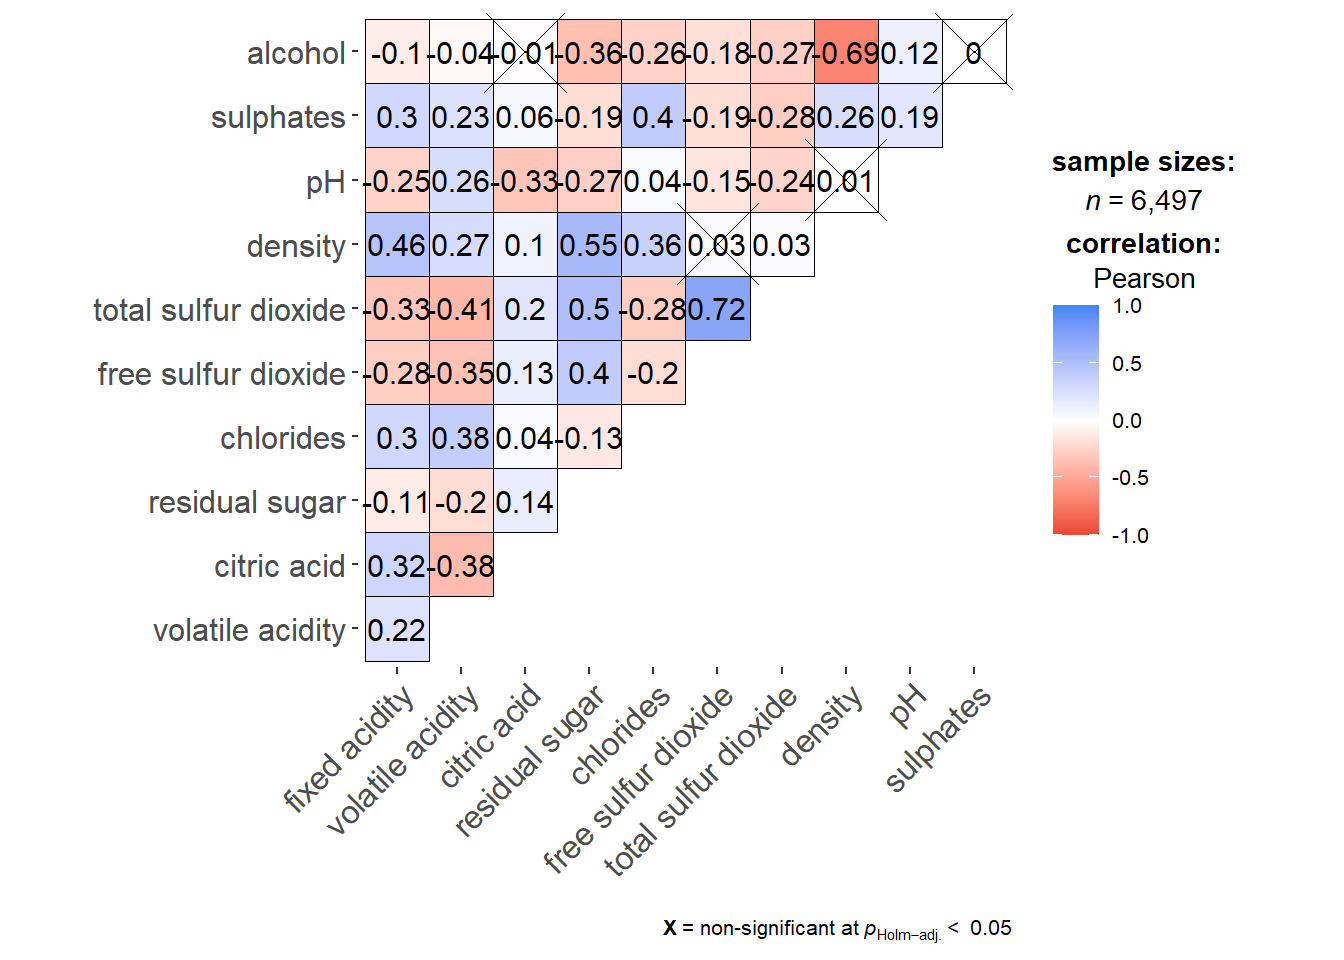
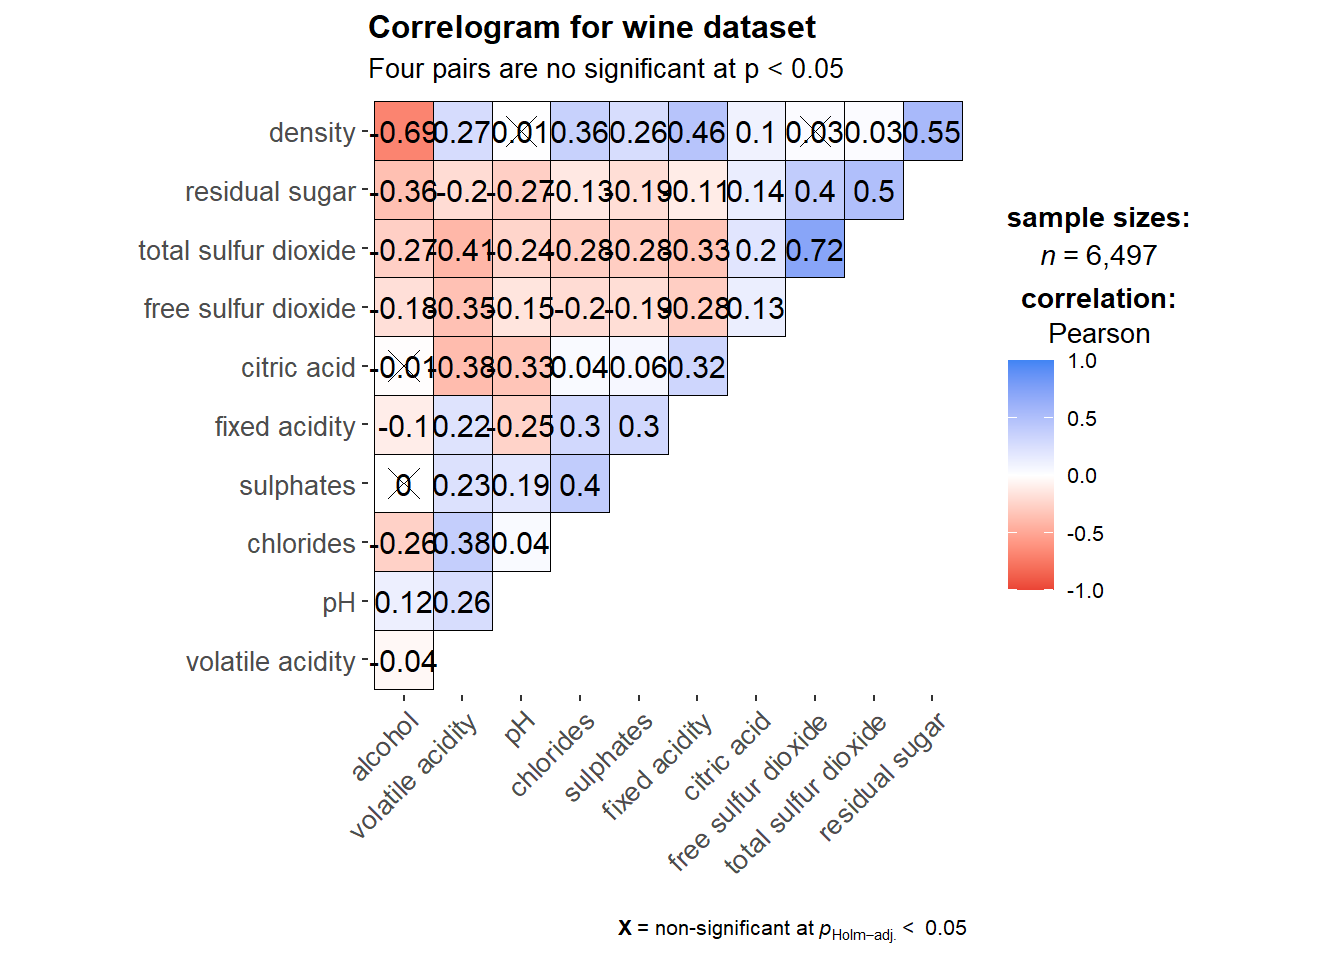
removed duplicate graph

Changed region(s): [[0.0625, 0.0, 0.75, 0.9062], [0.75, 0.1562, 0.9375, 0.625], [0.4688, 0.9375, 0.75, 1.0]]

diff --git a/_site/Hands-on_Ex/Hands-on_Ex05/Hands-on_Ex05_Building_Correlation_Matrix.html b/_site/Hands-on_Ex/Hands-on_Ex05/Hands-on_Ex05_Building_Correlation_Matrix.html
@@ -178,6 +178,14 @@ pre > code.sourceCode > span > a:first-child::before { text-decoration: underlin
     <a class="dropdown-item" href="../../Hands-on_Ex/Hands-on_Ex05/Hands-on_Ex05_Heatmap_for_multivariate_data.html">
  <span class="dropdown-text">Hands-on_Ex05_Heatmap_for_multivariate_data</span></a>
   </li>  
+        <li>
+    <a class="dropdown-item" href="../../Hands-on_Ex/Hands-on_Ex05/Hands-on_Ex05_visual_multivariate.html">
+ <span class="dropdown-text">Hands-on_Ex05_visual_multivariate</span></a>
+  </li>  
+        <li>
+    <a class="dropdown-item" href="../../Hands-on_Ex/Hands-on_Ex05/Hands-on_Ex05_treemap.html">
+ <span class="dropdown-text">Hands-on_Ex05_treemap</span></a>
+  </li>  
     </ul>
   </li>
 </ul>
@@ -452,34 +460,23 @@ pre > code.sourceCode > span > a:first-child::before { text-decoration: underlin
 </figure>
 </div>
 </div>
-<div class="cell-output-display">
-<div>
-<figure class="figure">
-<p><img src="Hands-on_Ex05_Building_Correlation_Matrix_files/figure-html/unnamed-chunk-13-2.png" class="img-fluid figure-img" width="672"></p>
-</figure>
-</div>
-</div>
 </div>
 </div>
 <div id="tabset-6-2" class="tab-pane" role="tabpanel" aria-labelledby="tabset-6-2-tab">
 <div class="cell">
 <div class="code-copy-outer-scaffold"><div class="sourceCode cell-code" id="cb8"><pre class="sourceCode r code-with-copy"><code class="sourceCode r"><span id="cb8-1"><a href="#cb8-1" aria-hidden="true" tabindex="-1"></a>ggstatsplot<span class="sc">::</span><span class="fu">ggcorrmat</span>(</span>
 <span id="cb8-2"><a href="#cb8-2" aria-hidden="true" tabindex="-1"></a>  <span class="at">data =</span> wine, </span>
-<span id="cb8-3"><a href="#cb8-3" aria-hidden="true" tabindex="-1"></a>  <span class="at">cor.vars =</span> <span class="dv">1</span><span class="sc">:</span><span class="dv">11</span>)</span>
-<span id="cb8-4"><a href="#cb8-4" aria-hidden="true" tabindex="-1"></a></span>
-<span id="cb8-5"><a href="#cb8-5" aria-hidden="true" tabindex="-1"></a>ggstatsplot<span class="sc">::</span><span class="fu">ggcorrmat</span>(</span>
-<span id="cb8-6"><a href="#cb8-6" aria-hidden="true" tabindex="-1"></a>  <span class="at">data =</span> wine, </span>
-<span id="cb8-7"><a href="#cb8-7" aria-hidden="true" tabindex="-1"></a>  <span class="at">cor.vars =</span> <span class="dv">1</span><span class="sc">:</span><span class="dv">11</span>,</span>
-<span id="cb8-8"><a href="#cb8-8" aria-hidden="true" tabindex="-1"></a>  <span class="at">ggcorrplot.args =</span> <span class="fu">list</span>(<span class="at">outline.color =</span> <span class="st">"black"</span>, </span>
-<span id="cb8-9"><a href="#cb8-9" aria-hidden="true" tabindex="-1"></a>                         <span class="at">hc.order =</span> <span class="cn">TRUE</span>,</span>
-<span id="cb8-10"><a href="#cb8-10" aria-hidden="true" tabindex="-1"></a>                         <span class="at">tl.cex =</span> <span class="dv">10</span>),</span>
-<span id="cb8-11"><a href="#cb8-11" aria-hidden="true" tabindex="-1"></a>  <span class="at">title    =</span> <span class="st">"Correlogram for wine dataset"</span>,</span>
-<span id="cb8-12"><a href="#cb8-12" aria-hidden="true" tabindex="-1"></a>  <span class="at">subtitle =</span> <span class="st">"Four pairs are no significant at p &lt; 0.05"</span></span>
-<span id="cb8-13"><a href="#cb8-13" aria-hidden="true" tabindex="-1"></a>)</span>
-<span id="cb8-14"><a href="#cb8-14" aria-hidden="true" tabindex="-1"></a>ggplot.component <span class="ot">=</span> <span class="fu">list</span>(</span>
-<span id="cb8-15"><a href="#cb8-15" aria-hidden="true" tabindex="-1"></a>    <span class="fu">theme</span>(<span class="at">text=</span><span class="fu">element_text</span>(<span class="at">size=</span><span class="dv">5</span>),</span>
-<span id="cb8-16"><a href="#cb8-16" aria-hidden="true" tabindex="-1"></a>      <span class="at">axis.text.x =</span> <span class="fu">element_text</span>(<span class="at">size =</span> <span class="dv">8</span>),</span>
-<span id="cb8-17"><a href="#cb8-17" aria-hidden="true" tabindex="-1"></a>      <span class="at">axis.text.y =</span> <span class="fu">element_text</span>(<span class="at">size =</span> <span class="dv">8</span>)))</span></code></pre></div><button title="Copy to Clipboard" class="code-copy-button"><i class="bi"></i></button></div>
+<span id="cb8-3"><a href="#cb8-3" aria-hidden="true" tabindex="-1"></a>  <span class="at">cor.vars =</span> <span class="dv">1</span><span class="sc">:</span><span class="dv">11</span>,</span>
+<span id="cb8-4"><a href="#cb8-4" aria-hidden="true" tabindex="-1"></a>  <span class="at">ggcorrplot.args =</span> <span class="fu">list</span>(<span class="at">outline.color =</span> <span class="st">"black"</span>, </span>
+<span id="cb8-5"><a href="#cb8-5" aria-hidden="true" tabindex="-1"></a>                         <span class="at">hc.order =</span> <span class="cn">TRUE</span>,</span>
+<span id="cb8-6"><a href="#cb8-6" aria-hidden="true" tabindex="-1"></a>                         <span class="at">tl.cex =</span> <span class="dv">10</span>),</span>
+<span id="cb8-7"><a href="#cb8-7" aria-hidden="true" tabindex="-1"></a>  <span class="at">title    =</span> <span class="st">"Correlogram for wine dataset"</span>,</span>
+<span id="cb8-8"><a href="#cb8-8" aria-hidden="true" tabindex="-1"></a>  <span class="at">subtitle =</span> <span class="st">"Four pairs are no significant at p &lt; 0.05"</span></span>
+<span id="cb8-9"><a href="#cb8-9" aria-hidden="true" tabindex="-1"></a>)</span>
+<span id="cb8-10"><a href="#cb8-10" aria-hidden="true" tabindex="-1"></a>ggplot.component <span class="ot">=</span> <span class="fu">list</span>(</span>
+<span id="cb8-11"><a href="#cb8-11" aria-hidden="true" tabindex="-1"></a>    <span class="fu">theme</span>(<span class="at">text=</span><span class="fu">element_text</span>(<span class="at">size=</span><span class="dv">5</span>),</span>
+<span id="cb8-12"><a href="#cb8-12" aria-hidden="true" tabindex="-1"></a>      <span class="at">axis.text.x =</span> <span class="fu">element_text</span>(<span class="at">size =</span> <span class="dv">8</span>),</span>
+<span id="cb8-13"><a href="#cb8-13" aria-hidden="true" tabindex="-1"></a>      <span class="at">axis.text.y =</span> <span class="fu">element_text</span>(<span class="at">size =</span> <span class="dv">8</span>)))</span></code></pre></div><button title="Copy to Clipboard" class="code-copy-button"><i class="bi"></i></button></div>
 </div>
 </div>
 </div>
@@ -772,7 +769,7 @@ pre > code.sourceCode > span > a:first-child::before { text-decoration: underlin
 </div>
 </div>
 </div>
-<p>This visualisation shows a reordered correlation matrix using hierarchical clustering (hclust). Instead of displaying variables in their original oder, the variables are rearranged so that, 1. highly related variables are grouped together 2. making patterns and clusters easier to identify visually There are 3 clusters identified. Interpretation: blue ellipses means positive correlation, red ellipses means negative correlation, thinner ellipses means stronger correlation, circular shapes means weak/no correlation. Reordering the matrix improves interpretability by placing related variables closer together. Some inferences are are the strong negative relationship between alchohol and density or the strong positive relationship between free sulfur dioxide and total sulfur dioxide.</p>
+<p>This visualisation shows a reordered correlation matrix using hierarchical clustering (hclust). Instead of displaying variables in their original oder, the variables are rearranged so that, 1. highly related variables are grouped together 2. making patterns and clusters easier to identify visually. There are 3 clusters identified. Interpretation: blue ellipses means positive correlation, red ellipses means negative correlation, thinner ellipses means stronger correlation, circular shapes means weak/no correlation. Reordering the matrix improves interpretability by placing related variables closer together. Some inferences are are the strong negative relationship between alchohol and density or the strong positive relationship between free sulfur dioxide and total sulfur dioxide.</p>
 
 
 </section>

diff --git a/_site/Hands-on_Ex/Hands-on_Ex05/Hands-on_Ex05_Building_Ternary_PlotWR.html b/_site/Hands-on_Ex/Hands-on_Ex05/Hands-on_Ex05_Building_Ternary_PlotWR.html
@@ -192,6 +192,18 @@ pre > code.sourceCode > span > a:first-child::before { text-decoration: underlin
     <a class="dropdown-item" href="../../Hands-on_Ex/Hands-on_Ex05/Hands-on_Ex05_Building_Correlation_Matrix.html">
  <span class="dropdown-text">Hands-on_Ex05_Building_Correlation_Matrix</span></a>
   </li>  
+        <li>
+    <a class="dropdown-item" href="../../Hands-on_Ex/Hands-on_Ex05/Hands-on_Ex05_Heatmap_for_multivariate_data.html">
+ <span class="dropdown-text">Hands-on_Ex05_Heatmap_for_multivariate_data</span></a>
+  </li>  
+        <li>
+    <a class="dropdown-item" href="../../Hands-on_Ex/Hands-on_Ex05/Hands-on_Ex05_visual_multivariate.html">
+ <span class="dropdown-text">Hands-on_Ex05_visual_multivariate</span></a>
+  </li>  
+        <li>
+    <a class="dropdown-item" href="../../Hands-on_Ex/Hands-on_Ex05/Hands-on_Ex05_treemap.html">
+ <span class="dropdown-text">Hands-on_Ex05_treemap</span></a>
+  </li>  
     </ul>
   </li>
 </ul>